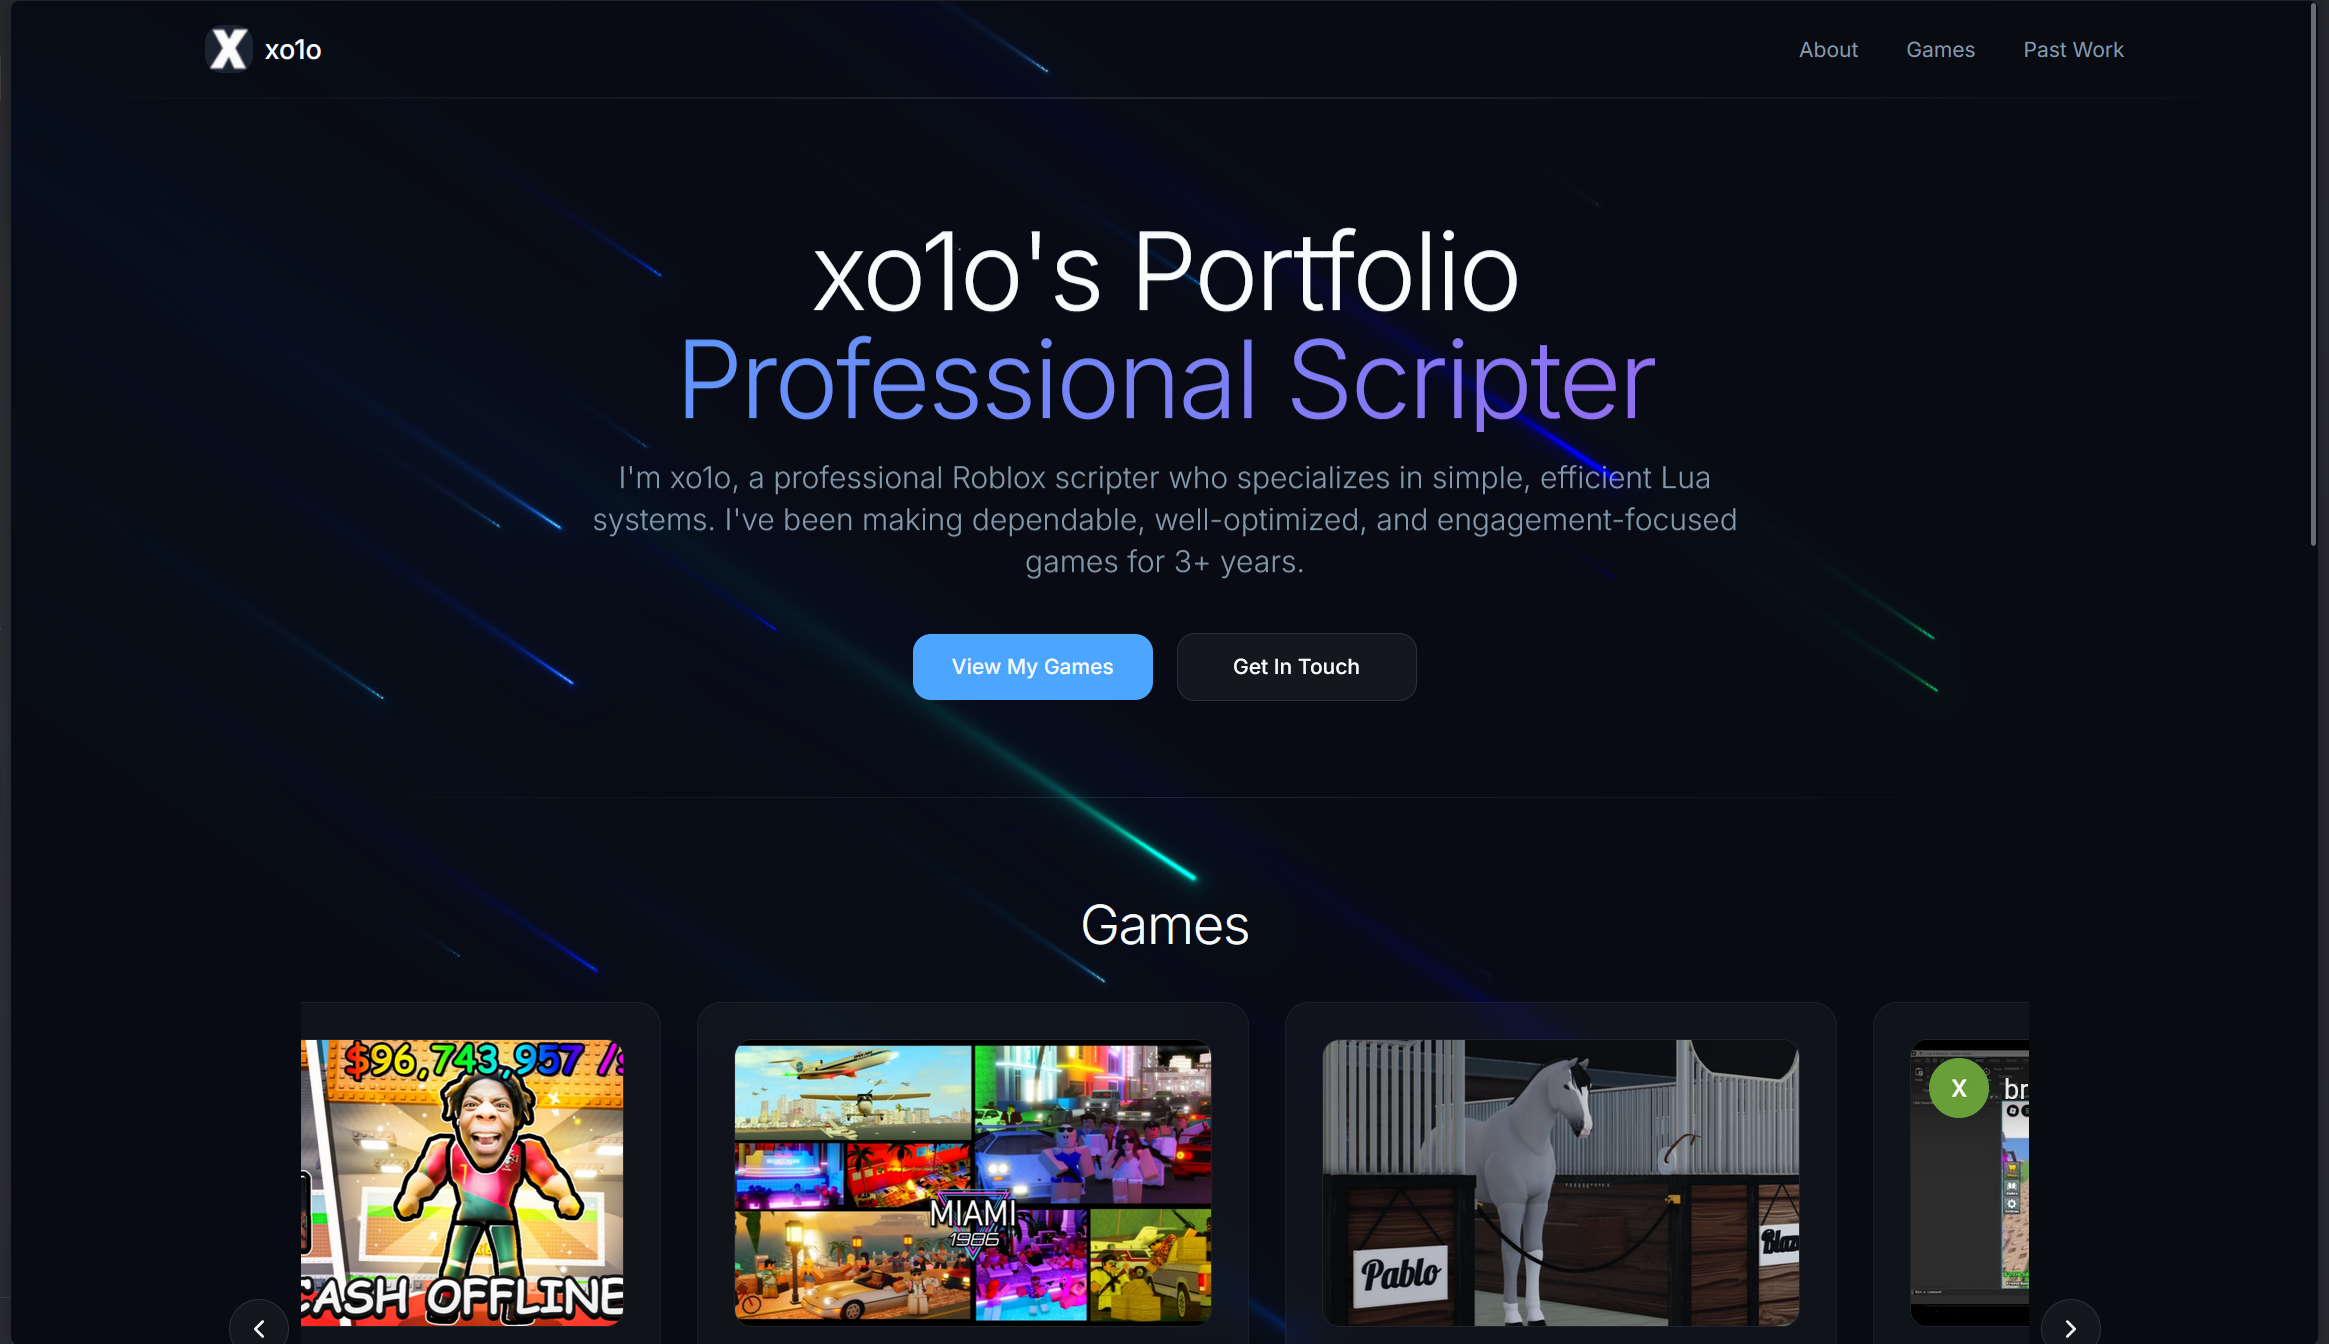
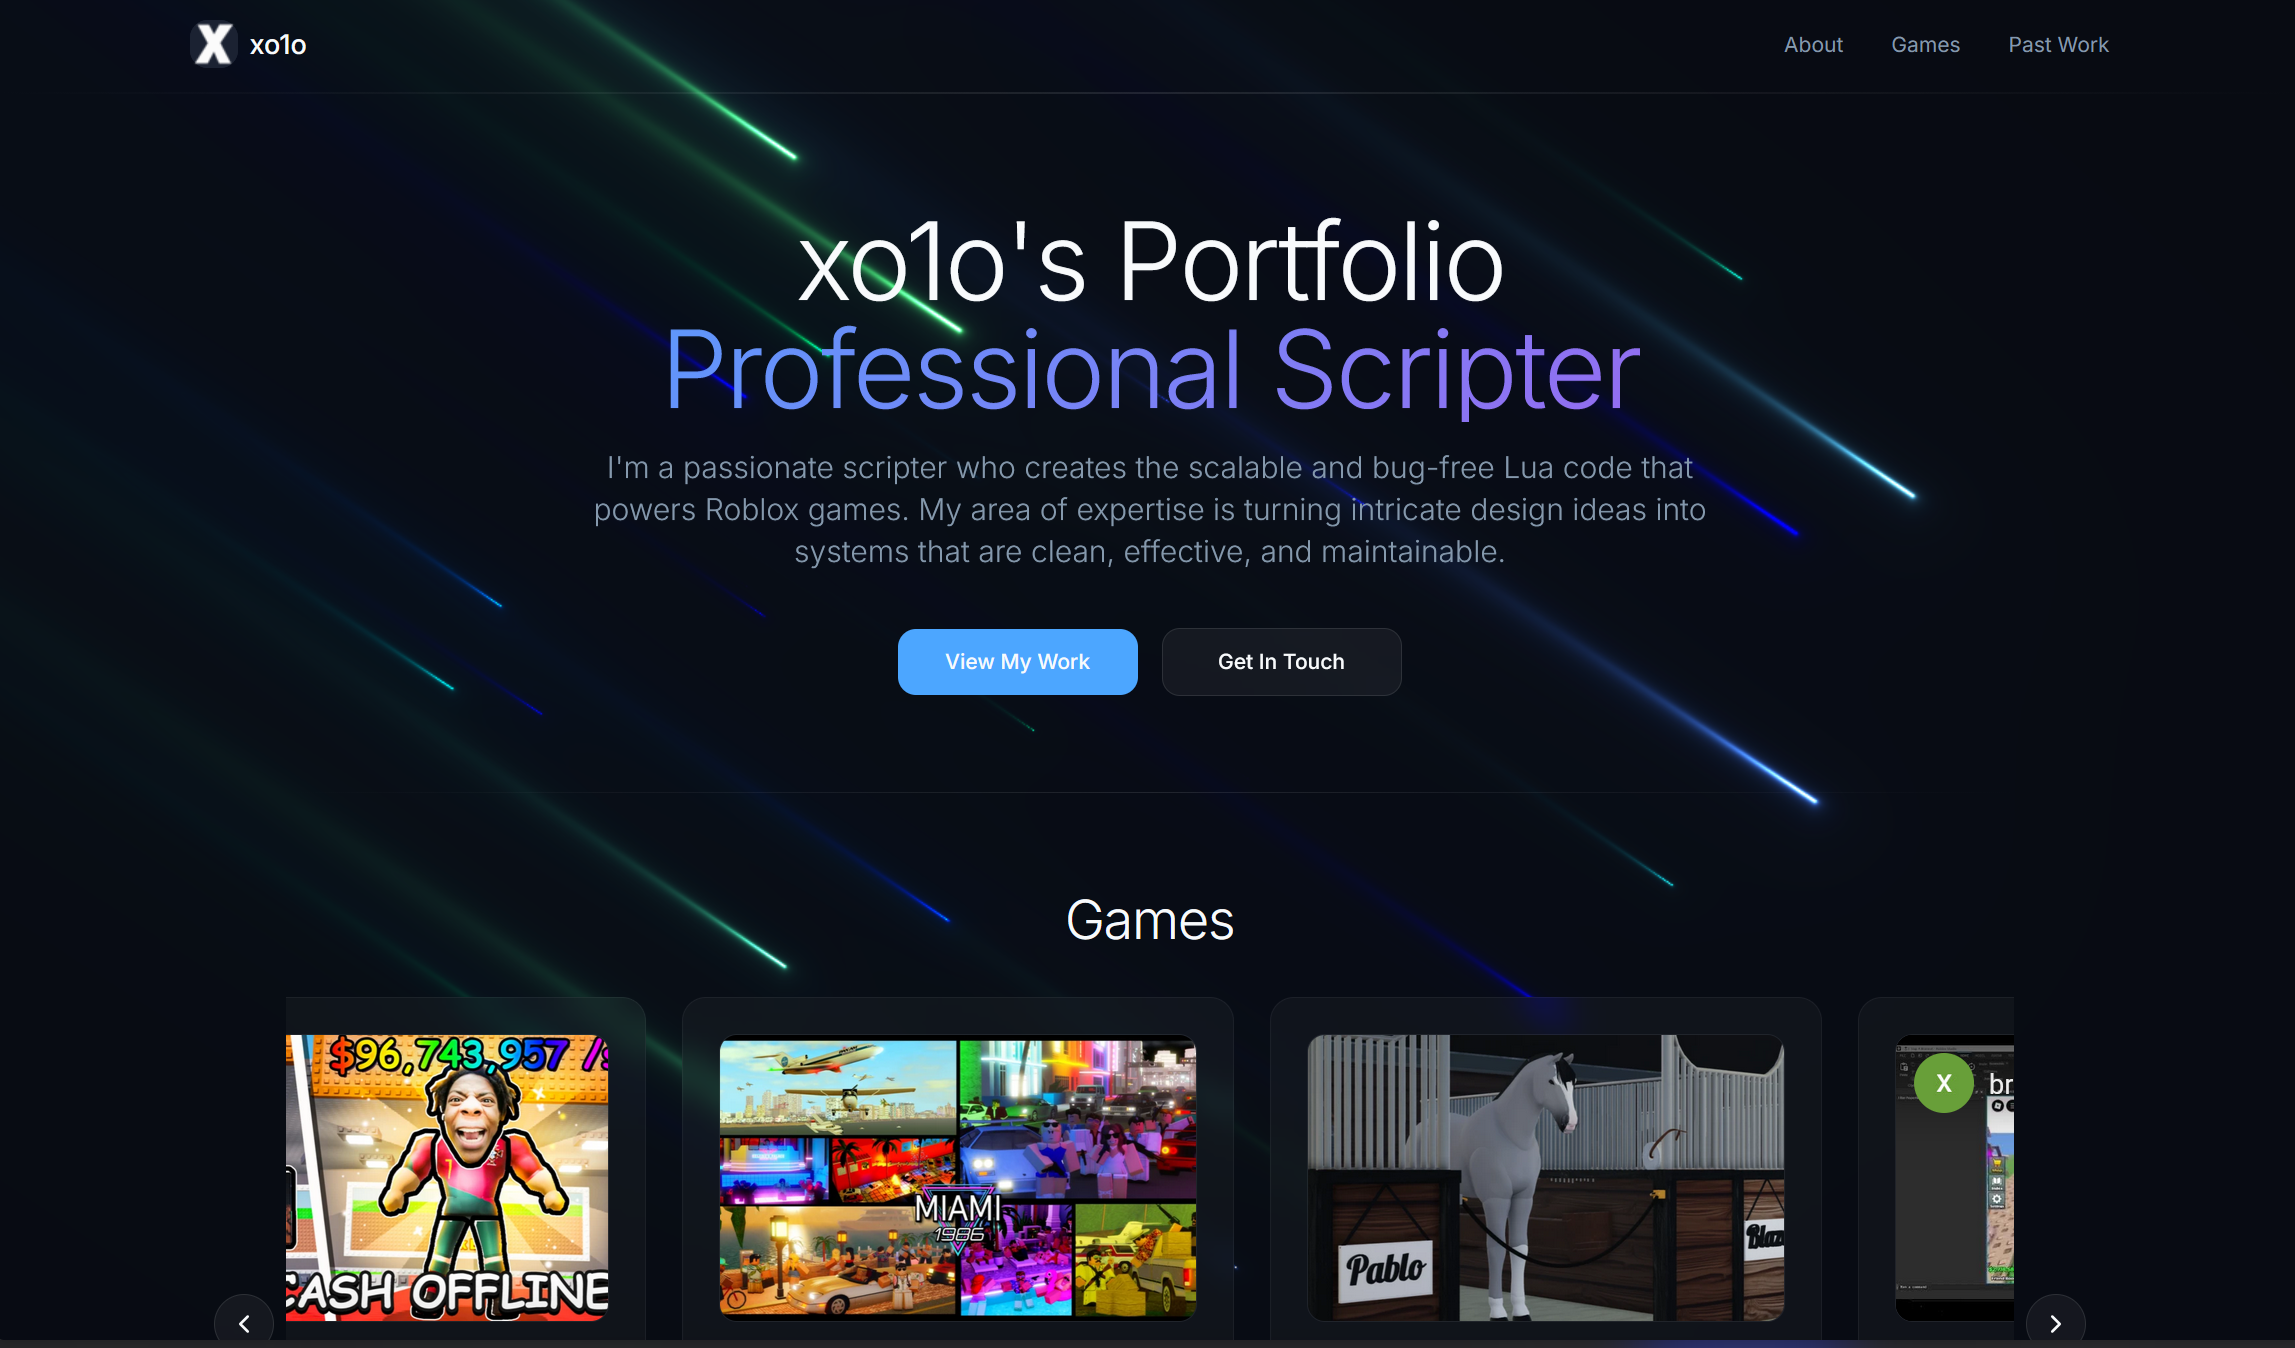
222

diff --git a/index.html b/index.html
@@ -7,7 +7,7 @@
 
     <link rel="icon" type="image/png" href="/favicon.ico">
 
-    <meta name="description" content="Professional Roblox scripter with 3+ years of experience. Specializing in game systems, monetization, and high-retention gameplay mechanics." />
+    <meta name="description" content="I'm a passionate scripter who creates the scalable and bug-free Lua code that powers Roblox games.  My area of expertise is turning intricate design ideas into systems that are clean, effective, and maintainable. />
     <meta name="author" content="xo1o" />
     <link rel="preconnect" href="https://fonts.googleapis.com">
     <link rel="preconnect" href="https://fonts.gstatic.com" crossorigin>
